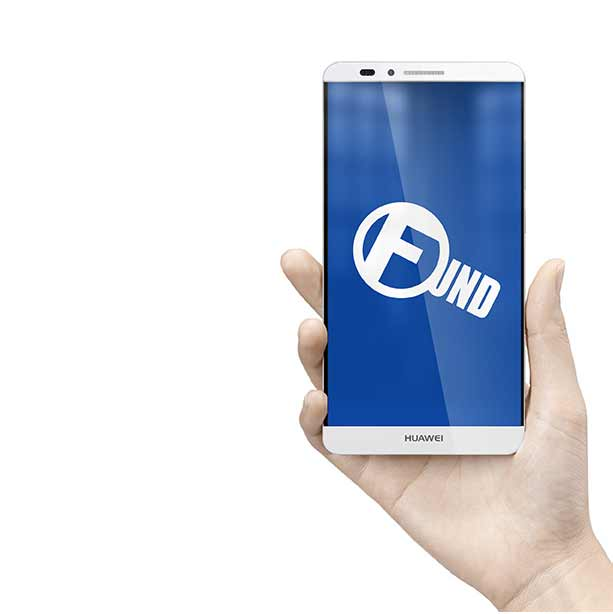
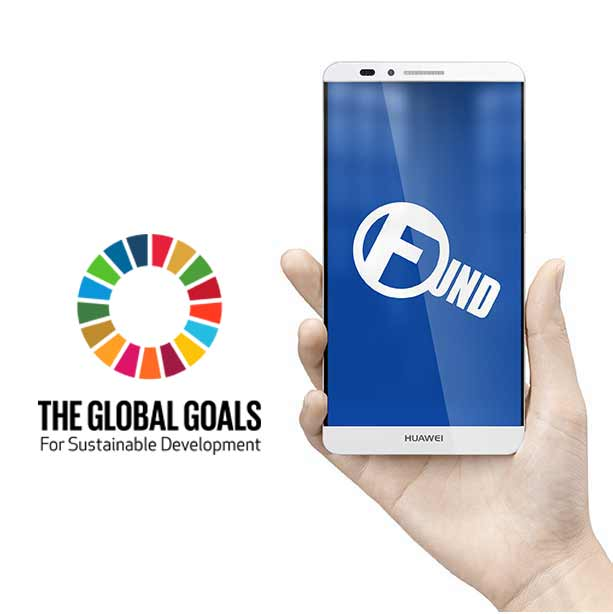
add photo and instructions

Changed region(s): [[0.124, 0.3713, 0.3719, 0.6189], [0.062, 0.6498, 0.4339, 0.7427]]

diff --git a/index.html b/index.html
@@ -6,116 +6,103 @@ layout: default
     <h2 class="gallery island-1-2">PORTFOLIO</h2>    
     <div class="grid">
                  
-        <div class="bbox unit unit-xs-1 unit-m-1-2 unit-l-1-3 island-1-2">
-            <a href="#poster" class="hover-box">
+        <div class="bbox unit unit-xs-1 unit-m-1-2 unit-l-1-2 island-1-2">
+            <a href="https://www.behance.net/dingchangxu" class="hover-box">
                 <img class="photo" src="image/soap.jpg" alt="poster">
                 <p>Packaging Design</p>
             </a>
-            
+            <p class="p1">I decided to use a simple box, when open, it becomes a unique display version of Guelph soaps, which is something special.</p>   
         </div>
         
-        <div class="bbox unit unit-xs-1 unit-m-1-2 unit-l-1-3 island-1-2">
-            <a href="#poster" class="hover-box">
-                <img class="photo" src="image/minto.jpg" alt="poster">
+        <div class="bbox unit unit-xs-1 unit-m-1-2 unit-l-1-2 island-1-2">
+            <a href="https://www.behance.net/dingchangxu" class="hover-box">
+                <img class="photo" src="image/minto.jpg" alt="minto">
                 <p>Campaign Design</p>
             </a>
+            <p class="p1">These homes are powered by natural and green energies, such as wind, sun, and water.</p>  
             
         </div>
         
-        <div class="bbox unit unit-xs-1 unit-m-1-2 unit-l-1-3 island-1-2">
-            <a href="#poster" class="hover-box">
-                <img class="photo" src="image/skele.jpg" alt="poster">
-                <p>Typography</p>
+        <div class="bbox unit unit-xs-1 unit-m-1-2 unit-l-1-2 island-1-2">
+            <a href="https://www.behance.net/dingchangxu" class="hover-box">
+                <img class="photo" src="image/skele.jpg" alt="Typography">
+                <p>Typography</p> 
             </a>
+            <p class="p1">Magazine layout design, I emphasize the word FREE for the skeleton</p> 
             
         </div>  
           
-        <div class="bbox unit unit-xs-1 unit-m-1-2 unit-l-1-3 island-1-2">
-            <a href="#poster" class="hover-box">
-                <img class="photo" src="image/app.jpg" alt="poster">
+        <div class="bbox unit unit-xs-1 unit-m-1-2 unit-l-1-2 island-1-2">
+            <a href="https://www.behance.net/dingchangxu" class="hover-box">
+                <img class="photo" src="image/app.jpg" alt="The Global Goals #10">
                 <p>UI Design</p>
             </a>
+            <p class="p1">The Global Goals #10 Reduced Inequalitise-user flow</p> 
             
         </div>
         
-        <div class="bbox unit unit-xs-1 unit-m-1-2 unit-l-1-3 island-1-2">
-            <a href="#poster" class="hover-box">
-                <img class="photo" src="image/app2.jpg" alt="poster">
+        <div class="bbox unit unit-xs-1 unit-m-1-2 unit-l-1-2 island-1-2">
+            <a href="https://www.behance.net/dingchangxu" class="hover-box">
+                <img class="photo" src="image/app2.jpg" alt="The Global Goals #10">
                 <p>UI Design</p>
             </a>
+            <p class="p1">The Global Goals #10 Reduced Inequalitise-login screen</p> 
             
         </div>
         
         
-        <div class="bbox unit unit-xs-1 unit-m-1-2 unit-l-1-3 island-1-2">
-            <a href="#poster" class="hover-box">
-                <img class="photo" src="image/app3.jpg" alt="poster">
+        <div class="bbox unit unit-xs-1 unit-m-1-2 unit-l-1-2 island-1-2">
+            <a href="https://www.behance.net/dingchangxu" class="hover-box">
+                <img class="photo" src="image/app3.jpg" alt="The Global Goals #10">
                 <p>UI Design</p>
             </a>
+            <p class="p1">The Global Goals #10 Reduced Inequalitise-login screen <a class="appdome" href="https://vimeo.com/148807507"> -See App Demo</p> 
             
         </div>
         
-        <div class="bbox unit unit-xs-1 unit-m-1-2 unit-l-1-3 island-1-2">
-            <a href="#poster" class="hover-box">
-              <img class="photo" src="image/p4.jpg" alt="portfolio-piece">
+        <div class="bbox unit unit-xs-1 unit-m-1-2 unit-l-1-2 island-1-2">
+            <a href="https://www.behance.net/dingchangxu" class="hover-box">
+              <img class="photo" src="image/p4.jpg" alt="Poster Sketch">
               <p>Poster Sketch</p>
             </a>
+            <p class="p1">The goal of the design is to make people stop and find out more detail. </p> 
         </div>
         
-        <div class="bbox unit unit-xs-1 unit-m-1-2 unit-l-1-3 island-1-2">
-            <a href="#poster" class="hover-box">
-              <img class="photo" src="image/p2.jpg" alt="portfolio-piece">
+        <div class="bbox unit unit-xs-1 unit-m-1-2 unit-l-1-2 island-1-2">
+            <a href="https://www.behance.net/dingchangxu" class="hover-box">
+              <img class="photo" src="image/p2.jpg" alt="People Sketch">
               <p>People Sketch</p>
             </a>
+            <p class="p1">Practice portrait for funy face</p> 
         </div>
         
-        <div class="bbox unit unit-xs-1 unit-m-1-2 unit-l-1-3 island-1-2">
-            <a href="#poster" class="hover-box">
-                <img class="photo" src="image/p3.jpg" alt="poster">
-                <p>Sketch</p>
-            </a>
-            
-        </div>
-        
-        <div class="bbox unit unit-xs-1 unit-m-1-2 unit-l-1-3 island-1-2">
-            <a href="#poster" class="hover-box">
-                <img class="photo" src="image/egg.jpg" alt="poster">
+        <div class="bbox unit unit-xs-1 unit-m-1-2 unit-l-1-2 island-1-2">
+            <a href="https://www.behance.net/dingchangxu" class="hover-box">
+                <img class="photo" src="image/egg.jpg" alt="egg">
                 <p>Engrave</p>
             </a>
+            <p class="p1">After I did my first egg engrave, I did another, then another,each one was better than the last. (sold)</p> 
             
         </div>
         
-        <div class="bbox unit unit-xs-1 unit-m-1-2 unit-l-1-3 island-1-2">
-            <a href="#poster" class="hover-box">
-                <img class="photo" src="image/egg2.jpg" alt="poster">
-                <p>Engrave</p>
-            </a>
-            
-        </div>
-        
-        <div class="bbox unit unit-xs-1 unit-m-1-2 unit-l-1-3 island-1-2">
-            <a href="#poster" class="hover-box">
+        <div class="bbox unit unit-xs-1 unit-m-1-2 unit-l-1-2 island-1-2">
+            <a href="https://www.behance.net/dingchangxu" class="hover-box">
                 <img class="photo" src="image/oil.jpg" alt="poster">
                 <p>Oil painting</p>
             </a>
+            <p class="p1">Still life on canvas (sold)</p> 
             
         </div>
         
         <div class="bbox unit unit-xs-1 unit-m-1 unit-l-1 island-1-2">
-            <a href="#poster" class="hover-box">
+            <a href="https://www.behance.net/dingchangxu" class="hover-box">
                 <img class="photo" src="image/banff.jpg" alt="poster">
                 <p>Photography</p>
             </a>
+            <p class="p1">Spend ten unforgettable days on the Alberta Canada, Experience unparalleled access to amazing wilderness scenery, wildlife habitats.</p> 
             
         </div>
-        
-        <div class="bbox unit unit-xs-1 unit-m-1 unit-l-1 island-1-2">
-            <a href="#poster" class="hover-box">
-                <img class="photo" src="image/banff2.jpg" alt="poster">
-                <p>Photography</p>
-            </a>
-            
-        </div>
+
 
     </div><!--photo end-->
 </div><!--PORTFOLIO end-->

diff --git a/_layouts/default.html b/_layouts/default.html
@@ -26,8 +26,7 @@
     <meta name="handheldfriendly" content="true">
     <meta name="mobileoptimized" content="240">
     <link href="{{site.caseur}}/css/portfolio.css" rel="stylesheet">
-    <link href='https://fonts.googleapis.com/css?family=Roboto+Condensed:400,700,400italic,700italic,300italic,300' rel='stylesheet' type='text/css'>
-    <link href='https://fonts.googleapis.com/css?family=Pacifico' rel='stylesheet' type='text/css'>
+    <link href='https://fonts.googleapis.com/css?family=Roboto:700,100' rel='stylesheet' type='text/css'>
 </head>
 <body>
     
@@ -63,14 +62,14 @@
             <section class="boxes unit unit-xs-1 unit-s-1 unit-m-1-1 unit-l-1-3">
                 <div class="box2 island-1-2">
                     <h2>MY WORK</h2>
-                    <p>MyWork can help you design your customize website and setup your social networking profile. From a professional design, logo, photography, hosting, domain, emails, support and Content Management System (CMS) access, this complete website solution is perfect for tradesmen, individuals and small to medium sized businesses.helping you build a community of customers connected directly with your brand.</p>
+                    <p>My Work can help you design your customize website and setup your social networking profile. From a professional design, logo, photography, hosting, domain, emails, support and Content Management System (CMS) access, this complete website solution is perfect for tradesmen, individuals and small to medium sized businesses.helping you build a community of customers connected directly with your brand.</p>
                 </div>
             </section>
 
             <section class="boxes unit unit-xs-1 unit-s-1 unit-m-1-1 unit-l-1-3">
                 <div class="box3 island-1-2">
                     <h2>PHOTOGRAPHY</h2>
-                    <p>Landscape Around Canada, Amazing picturesque views on earth, with longest bridge in the world crossing ice-covered water.</p></div>
+                    <p>Rising along the border between Alberta and British Columbia, the Canadian Rockies are a wonderland of twisting peaks, Each day is a new adventure! Experience unparalleled access to amazing wilderness scenery, wildlife habitats.</p></div>
             </section>
         </div><!--front intro end-->
         

diff --git a/_includes/css/main.css b/_includes/css/main.css
@@ -43,9 +43,18 @@ body {
     margin: 0;
 }
 
-.p {
+.p1 {
     font-family: 'Roboto Condensed', sans-serif;
-    font-weight: 300;
+    font-weight: 100;
+    padding-top: 1rem;
+    padding-left: 1.5rem;
+    padding-right: 1.5rem;
+    font-size: 1rem;
+    opacity: .8;
+}
+
+.appdome {
+    color: white;
 }
 
 .back {
@@ -113,7 +122,7 @@ body {
 .bbox {
     position: relative;
 }
-
+/*
 .blackbox {
     position: absolute;
     left: 0;
@@ -123,16 +132,14 @@ body {
     opacity: 9;
     transition: all 1s linear;
     color: #ebd10a;
-}
+}*/
 
 .front {
     background-color: black;
     color: #fff;
     position: relative;
     z-index: 1000;
-    -webkit-z-index: 1000;
-    -o-z-index: 1000;
-    -moz-z-index: 1000;
+    transform: translateZ(0);
 }
 
 .myself {
@@ -172,10 +179,6 @@ body {
     -webkit-color: white;
 }
 
-.p4 {
-    margin: 0;
-}
-
 .logo {
     width: 2rem;
     position: absolute;
@@ -195,9 +198,7 @@ body {
     height: auto;
     margin: 0;
     padding: 0;
-    -webkit-z-index: 9999;
-    -o-z-index: 9999;
-    -moz-z-index: 9999;
+    transform: translateZ(0);
 }
 
 .photo {
@@ -205,6 +206,7 @@ body {
     -webkit-width: 100%;
     -o-width: 100%;
     -moz-width: 100%;
+    
 }
 
 
@@ -229,7 +231,7 @@ body {
     text-align: center;
     font-family: 'Roboto Condensed', sans-serif;
     color: white;
-    font-weight: 300;
+    font-weight: 100;
     background-color: black; 
 }
 
@@ -240,11 +242,17 @@ body {
 	display: inline;
 }
 
+.icon:hover {
+    opacity: .6;
+    position: relative;
+    top: -2px;
+}
+
 .btt { 
 	color: white;
     font-family: 'Roboto Condensed', sans-serif;
 	font-size: .75rem;
-	font-weight: 400;
+	font-weight: 100;
     list-style: none;
 }
 
@@ -270,9 +278,10 @@ body {
   margin: 0;
   color: white;
   font-size: 1.5em;
-  text-align: left;
+  text-align: center;
   padding-left: 1em;
   padding-top: 1em;
+  padding-right: 1em;
   text-transform: uppercase;
   -webkit-transform: scale(0);
   -o-transform: scale(0);

diff --git a/404.html b/404.html
@@ -1,5 +1,8 @@
 <!DOCTYPE html>
 <html lang="en-ca">
 <head>
+<link href="css/animate.css" rel="stylesheet">
+<link href="css/typography.css" rel="stylesheet">
+<link href="css/main.css" rel="stylesheet">
 <h1 class="myself animated zoomIn">OOps DING CHANG XU is not here yet</h1>
 </head>
